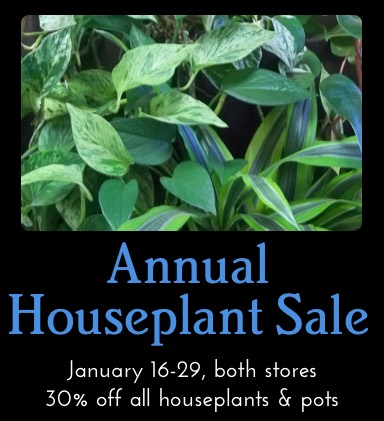
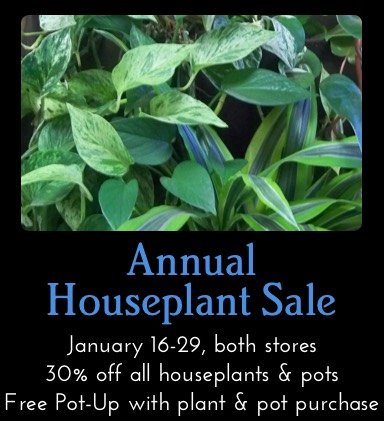
updates

Changed region(s): [[0.0, 0.5558, 1.0, 0.9881]]

diff --git a/pages/events/current-classes.htm b/pages/events/current-classes.htm
@@ -66,6 +66,7 @@ is_hidden = 0
 -->
 
 
+<!--
 <h2 class="wkend">Ongoing throughout the holidays</h2>
 
 <figure><img class="img-responsive" src="{{ 'assets/images/events/wreathmaking.jpg'|theme }}" alt="classes"></figure>
@@ -76,34 +77,9 @@ is_hidden = 0
 <p>Call us to schedule at the location of your choice with your preferred date and time slot. </p>
 
 <p><strong>9000 SE Division St. location:</strong><br />Limited to 5-12 people.<br>Daily from November 23 – December 23. Time Slots are 10:00am, 12:30pm and 3:00pm.<br>Email <a href="mailto:division-classes@portlandnursery.com?subject=Schedule%20a%20Wreath%20Party">division-classes@portlandnursery.com</a> or call 503-788-9000.</p>
+-->
 
 <!-- <p><strong>5050 SE Stark St location:</strong><br />Limited to 5-10 people.<br>Daily from November 22 – December 15. Time Slots are 10:00am, 12:30pm and 3:00pm.<br>Email <a href="mailto:stark-classes@portlandnursery.com?subject=Schedule%20a%20Wreath%20Party">stark-classes@portlandnursery.com</a> or call 503-231-5050.</p> -->
-
-
-<h2 class="wkend">December 21 - 22, 2019</h2>
-
-<div class="dclass">
-	<h3>Holiday Craft Workshop for Kids</h3>
-<p>with Portland Nursery Staff<br>
-Kick off winter break with a fun activity for the whole family! Get creative with fresh-cut greens, and smell the scents of the season. Our enthusiastic teachers will guide you through the process of making a small wreath, swag, or table arrangement that is unique to you, and guaranteed to bring holiday cheer into your home! <strong>Since we will be using handheld pruners we request kids 12 and under be accompanied by an adult.</strong> Class size will be limited so sign up soon! Make sure to register separately for each family member.</p>
-<p>$15 materials fee.</p>
-<p><strong>9000 SE DIVISION &bull; Saturday &bull; December 21 &bull; 10:00-11:30am</strong><br>
-<a href="https://portlandnursery.wufoo.com/forms/z1o8kfx51dov2dy/" onclick="window.open(this.href,  null, 'height=483, =680, toolbar=0, location=0, status=1, scrollbars=1, resizable=1'); return false">Click here to register for this class.</a></p></div>
-
-<h3>Wreath Making Workshop at STARK</h3>
-<p>with Portland Nursery Staff<br>
-Come create a beautiful wreath for your door this holiday season! Portland Nursery staff will supply the technical know-how, you bring your own special style, your gloves and pruners. We will make a 12” wreath with fresh greens and other decoration.  We will provide pruners, but please bring a pair if you have some. Dress warmly! </p>
-<p>Class limit 10 people. $35 materials fee.</p>
-<p><strong>5050 SE STARK &bull; Saturday &bull; December 21 &bull; 12:30pm</strong><br>
-<a href="https://portlandnursery.wufoo.com/forms/z1wssgf91an08nx/" onclick="window.open(this.href,  null, 'height=483, =680, toolbar=0, location=0, status=1, scrollbars=1, resizable=1'); return false">Click here to register for this class.</a></p>
-
-<div class="dclass">
-	<h3>Rituals for Winter Solstice</h3>
-<p>with <a target="_blank" href="http://www.hollypruettcelebrant.com">Life-Cycle Celebrant Holly Pruett</a><br>
-Join Life-Cycle Celebrant Holly Pruett to explore the world of winter rituals. How can we honor the darker times, the fallow ground that carries the promise of spring? This creative ceremony-maker will help you imagine and carry out personal, family, and community rituals that transcend the commercial chaos of the holiday season. Portland Nursery landscape designer Terrie Burdette will guide the group through creating a personalized candle ring from collected greens & floral materials. A wonderful hands-on activity to embrace the season and take home a new ritual.</p>
-<p>Materials fee: $12, pay at register day of class. Please bring gloves and hand pruners.</p>
-<p><strong>9000 SE DIVISION &bull; Saturday &bull; December 21 &bull; 3:00-4:30pm</strong><br>
-<a href="https://portlandnursery.wufoo.com/forms/z1xmd1a71my0mjv/" onclick="window.open(this.href,  null, 'height=483, =680, toolbar=0, location=0, status=1, scrollbars=1, resizable=1'); return false">Click here to register for this class.</a></p></div>
 
 
 <h2 class="wkend">January 4 - 5, 2020</h2>
@@ -250,8 +226,92 @@ Want to be an orchid-keeper? Maybe you’re intimidated by their stereotypes of 
 <p><strong>5050 SE STARK &bull; Sunday &bull; January 26 &bull; 1:00pm</strong><br>
 <a href="https://www.eventbrite.com/e/orchids-101-with-sue-volek-tickets-84460135539" onclick="window.open(this.href,  null, 'height=483, =680, toolbar=0, location=0, status=1, scrollbars=1, resizable=1'); return false">Click here to register for this class.</a></p>
 
+<h2 class="wkend">February 1 - 2, 2020</h2>
 
+<div class="dclass">
+	<h3>What to Do in the February Vegetable Garden</h3>
+    <p>with Robyn Streeter of <a href="http://www.yourbackyardfarmer.com/" target="_blank">Your Backyard Farmer</a><br />
+Join Robyn for a great refresher on what to do in the veggie garden for the month of February. Learn how to plan your garden for the year. This includes selecting the garden site, how much space you need to feed your family, crop rotation planning, and garden mapping! </p>
+<p><strong>9000 SE DIVISION &bull; Saturday &bull; February 1 &bull; 11:00am</strong><br>
+<a href="https://portlandnursery.wufoo.com/forms/z1mlac030hu93xd/" onclick="window.open(this.href,  null, 'height=483, =680, toolbar=0, location=0, status=1, scrollbars=1, resizable=1'); return false">Click here to register for this class.</a></p></div>
 
+<div class="dclass">
+	<h3>Make a Spring Wreath</h3>
+<p>with Jess<br>
+Welcome Spring by joining Jess of Portland Nursery to create a hand-tied wreath. We will use fresh flowers and branches that celebrate nature’s annual awakening. </p>
+<p>Materials fee: $30, payable at register on the day of the class. Class size limited to 20. </p>
+<p><strong>9000 SE DIVISION &bull; Sunday &bull; February 2 &bull; 11:00am</strong><br>
+<a href="https://portlandnursery.wufoo.com/forms/z4ucbxk1sw0eux/" onclick="window.open(this.href,  null, 'height=483, =680, toolbar=0, location=0, status=1, scrollbars=1, resizable=1'); return false">Click here to register for this class.</a></p></div>
+
+<h2 class="wkend">February 8 - 9, 2020</h2>
+
+<div class="dclass">
+	<h3>Kokedama Workshop </h3>
+    <p>with Lucy Davenport of <a target="_blank" href="http://www.bonsaiakira.com">Bonsai Akira</a><br />
+Kokedama roughly translates from Japanese to mean “moss ball,” which describes the technique of wrapping of the plant’s roots and soil in moss and artistically tying this bundle with wire or string. Either hung from a ceiling or shelf or set on a tray, kokedama is a beautiful and space saving way to display houseplants. Learn how to create two in this class and go home with tips on how to care for your new creations.
+Materials: $30 fee, payable at register day of class.</p>
+<p><strong>9000 SE DIVISION &bull; Saturday &bull; February 8 &bull; 11:00am</strong><br>
+<a href="https://portlandnursery.wufoo.com/forms/z1yzlfhu03qqpt9/" onclick="window.open(this.href,  null, 'height=483, =680, toolbar=0, location=0, status=1, scrollbars=1, resizable=1'); return false">Click here to register for this class.</a></p></div>
+
+<div class="dclass">
+	<h3>The Seasons of a Pine</h3>
+<p>with Tom Dufala, <a target="_blank" href="http://bentwoodtreefarm.com">Bentwood Tree Farm</a><br>
+Tom Dufala of Bentwood Tree Farm will visit us to explore Japanese garden styled pine trees. Learn about pine tree culture and the best methods to guide your pine tree into its own character. Tom will discuss pine varieties, garden siting for best growth, and how to care for and prune pine trees for a Japanese garden style.</p>
+<p><strong>9000 SE DIVISION &bull; Saturday &bull; February 8 &bull; 1:00pm</strong><br>
+<a href="https://portlandnursery.wufoo.com/forms/z7lxlv70yia66e/" onclick="window.open(this.href,  null, 'height=483, =680, toolbar=0, location=0, status=1, scrollbars=1, resizable=1'); return false">Click here to register for this class.</a></p></div>
+
+<div class="dclass">
+	<h3>Writing and Drawing with Plants</h3>
+	<p>with interdisciplinary artist <a target="_blank" href="https://www.tamaralynne.net">Tamara Lynne</a>, of Portland Nursery<br>
+Bring a hardback notebook with blank pages and a pen, pencil or any other drawing materials, and settle in to enjoy quiet writing and drawing inspiration from the many vibrant living things around us: plants, trees, insects, birds, sun, wind and weather. Through close listening, careful observation, and a series of timed prompts, we’ll engage with the environment. We plan to be outside for part of the time, weather permitting. Chairs will be provided, but feel free to bring cushions or other seating if you like.</p>
+<p><strong>9000 SE DIVISION &bull; Sunday &bull; February 9 &bull; 11:00am</strong><br>
+<a href="https://portlandnursery.wufoo.com/forms/zeelhch18j6z0w/" onclick="window.open(this.href,  null, 'height=483, =680, toolbar=0, location=0, status=1, scrollbars=1, resizable=1'); return false">Click here to register for this class.</a></p></div>
+
+<div class="dclass">
+	<h3>The Story of a Flower</h3>
+	<p>with Gradey Proctor from the <a target="_blank" href="https://arctosschool.org">Arctos School of Herbal and Botanical Studies</a><br>
+Are you ready to delve deep into the story of a flower? Then join Gradey from the Arctos School of Herbal and Botanical Studies in this hands-on class where we will go through basic anatomy of the flower and see what each part is up to. We’ll explore how this relates to the co-evolutionary dance between plant and insect, how we use this tool to ID plants and to explore plant relationships. If you are looking for a new way to see the plants in your garden you should come by for this hands-on exploration of the plant world. </p>
+<p><strong>9000 SE DIVISION &bull; Sunday &bull; February 9 &bull; 1:00pm</strong><br>
+<a href="https://portlandnursery.wufoo.com/forms/z1a25wtz0ztekza/" onclick="window.open(this.href,  null, 'height=483, =680, toolbar=0, location=0, status=1, scrollbars=1, resizable=1'); return false">Click here to register for this class.</a></p></div>
+
+<h2 class="wkend">February 15 - 16, 2020</h2>
+
+<div class="dclass">
+	<h3>Rose Care 101 </h3>
+     <p>with Rich Baer, <a href="http://www.portlandrosesociety.org/" target="_blank">Portland Rose Society</a><br />
+February is here and it’s time to prune your roses! Join rose expert Rich Baer from the Portland Rose Society to learn the basics of growing roses. He will cover the basics of different rose species, proper pruning timing and techniques, fertilizing and watering needs, pest and disease control, and other helpful tips to keep your roses healthy, happy, and blooming!</p>
+<p><strong>9000 SE DIVISION &bull; Saturday &bull; February 15 &bull; 1:00pm</strong><br>
+<a href="https://portlandnursery.wufoo.com/forms/znan7uf1msylzv/" onclick="window.open(this.href,  null, 'height=483, =680, toolbar=0, location=0, status=1, scrollbars=1, resizable=1'); return false">Click here to register for this class.</a></p></div>
+
+<div class="dclass">
+	<h3>Herbal Remedies from the Kitchen Cabinet</h3>
+	<p>with Gradey Proctor from the <a target="_blank" href="https://arctosschool.org">Arctos School of Herbal and Botanical Studies</a><br>
+Did you know that there is a whole apothecary at your disposal in your own kitchen? Join community herbalist Missy Rohs to uncover the secrets in your spice cabinet. We’ll talk about herbs (and even some vegetables!) that you can use for colds, digestive upset, coughs, wounds, and more! You’ll be surprised at how many remedies you never knew you could use safely and effectively that can be grown in your own back yard or on your windowsill.</p>
+<p><strong>9000 SE DIVISION &bull; Sunday &bull; February 16 &bull; 1:00pm</strong><br>
+<a href="https://portlandnursery.wufoo.com/forms/z1pe377u1nhok33/" onclick="window.open(this.href,  null, 'height=483, =680, toolbar=0, location=0, status=1, scrollbars=1, resizable=1'); return false">Click here to register for this class.</a></p></div>
+
+<h2 class="wkend">February 22 - 23, 2020</h2>
+
+<div class="dclass">
+	<h3>Winter Apple Tree Pruning</h3>
+<p>with Jarid<br>
+Spring is almost here and it’s time to winter prune your apples! Join Jarid of Portland Nursery for an intro in essential care for your apple trees. Learn how to improve your yields, train young trees, reinvigorate your old growth tree, and more. We will discuss some of the fundamentals of apple tree growth and how you can use that knowledge to get the most from your apple tree.</p>
+<p><strong>9000 SE DIVISION &bull; Sunday &bull; February 22 &bull; 1:00pm</strong><br>
+<a href="https://portlandnursery.wufoo.com/forms/zpfxd220rw80an/" onclick="window.open(this.href,  null, 'height=483, =680, toolbar=0, location=0, status=1, scrollbars=1, resizable=1'); return false">Click here to register for this class.</a></p></div>
+
+<div class="dclass">
+	<h3>Organic Veggie Gardening 101: Basics for Beginners</h3>
+    <p>with <a href="http://jolieanndonohue.wix.com/thegardeninggoddess" target="_blank">Gardening Goddess</a>, Jolie Ann Donohue<br />
+If you are excited to grow your own food, but have little to no experience or are new to gardening in the Portland area, this is the class for you! Jolie Donohue, The Gardening Goddess will discuss the basics of organic edible gardening, including: site preparation, crop selection based on site elements, planting and care techniques. With her two decades of gardening experience, Jolie will demystify growing your own food and will share her tips and techniques for beginner success!</p>
+<p><strong>9000 SE DIVISION &bull; Sunday &bull; February 23 &bull; 11:00am</strong><br>
+<a href="https://portlandnursery.wufoo.com/forms/z1d9k3w10lfdwsx/" onclick="window.open(this.href,  null, 'height=483, =680, toolbar=0, location=0, status=1, scrollbars=1, resizable=1'); return false">Click here to register for this class.</a></p></div>
+
+<div class="dclass">
+	<h3>Organic Veggie Gardening 102: Companion Planting and Crop Rotation</h3>
+    <p>with <a href="http://jolieanndonohue.wix.com/thegardeninggoddess" target="_blank">Gardening Goddess</a>, Jolie Ann Donohue<br />
+Take your vegetable garden to the next level. This is a great class for gardeners with a little experience under their belt who now want to dig deeper! Join Jolie Donohue, The Gardening Goddess and learn the benefits of practicing crop rotation and companion planting for the healthiest, happiest plants possible. Drawing from two decades of gardening experience, Jolie will discuss tips and techniques for crop rotation, great crop combinations and methods for inter-planting, and strategize about how to rotate crops in small urban plots.</p>
+<p><strong>9000 SE DIVISION &bull; Sunday &bull;  February 23 &bull; 1:00pm</strong><br>
+<a href="https://portlandnursery.wufoo.com/forms/z1r54qzz16jafjg/" onclick="window.open(this.href,  null, 'height=483, =680, toolbar=0, location=0, status=1, scrollbars=1, resizable=1'); return false">Click here to register for this class.</a></p></div>
 
 
 <hr/>

diff --git a/pages/events/yearly-events.htm b/pages/events/yearly-events.htm
@@ -14,8 +14,8 @@ is_hidden = 0
     <div class="container content">
         <div class="row">
             <div class="col-md-offset-1 col-md-10">
-<!--
-                <h2 class="wkend">January 2020</h2>
+
+   <h2 class="wkend">January 2020</h2>
 
                 <figure><img class="img-responsive" src="{{ 'assets/images/events/houseplant-sale-event.jpg'|theme }}" alt="classes"></figure>
 
@@ -39,6 +39,7 @@ is_hidden = 0
 
                 <h4>Both Locations &bull; January 16-29 &bull; Store Hours</h4>
 
+<!--
                 <h2 class="wkend">February 2019</h2>
 
                    <figure><img class="img-responsive" src="{{ 'assets/images/events/valentinesale.jpg'|theme }}" alt="classes"></figure>
@@ -308,7 +309,7 @@ Come work with the mason bee experts to find out how to harvest your mason bees!
 <p><strong>9000 SE DIVISION &bull; Sunday &bull; November 17 &bull; 1:00-3:00pm</strong><br>
 <a href="https://portlandnursery.wufoo.com/forms/z1mysxow09k3d68/" onclick="window.open(this.href,  null, 'height=483, =680, toolbar=0, location=0, status=1, scrollbars=1, resizable=1'); return false">Click here to register for this class.</a></p>
 
-   <hr>-->
+
 
 <figure><img class="img-responsive" src="{{ 'assets/images/events/wreathmaking.jpg'|theme }}" alt="classes"></figure>
 <h3>Schedule a Wreath Making Party!</h3>
@@ -320,31 +321,8 @@ Come work with the mason bee experts to find out how to harvest your mason bees!
 <p><strong>9000 SE Division St. location:</strong><br />Limited to 5-12 people.<br>Daily from November 23 – December 23. Time Slots are 10:00am, 12:30pm and 3:00pm.<br>Email <a href="mailto:division-classes@portlandnursery.com?subject=Schedule%20a%20Wreath%20Party">division-classes@portlandnursery.com</a> or call 503-788-9000.</p>
 
 <p><strong>5050 SE Stark St location:</strong><br />Limited to 5-10 people.<br>Daily from November 22 – December 15. Time Slots are 10:00am, 12:30pm and 3:00pm.<br>Email <a href="mailto:stark-classes@portlandnursery.com?subject=Schedule%20a%20Wreath%20Party">stark-classes@portlandnursery.com</a> or call 503-231-5050.</p>
+   <hr>-->
 
-
-                <h2 class="wkend">January 2020</h2>
-
-                <figure><img class="img-responsive" src="{{ 'assets/images/events/houseplant-sale-event.jpg'|theme }}" alt="classes"></figure>
-
-                <h2>Portland Nursery Annual Houseplant and Pottery Sale</h2>
-
-                <p>We call January Indoor Gardening Month and at Portland Nursery, you'll find the biggest selection of houseplants around!</p>
-
-                <h3>We have fresh shipments of houseplants for the sale!</h3>
-
-                <blockquote>
-                    <ul>
-                        <li>30% off all Houseplants including Indoor Bonsai, Orchids, Citrus and Cactus</li>
-
-                        <li>30% off all Decorative Pots</li>
-
-                        <li>Purchase a plant and a pot and get a free Pot-Up!</li>
-
-                        <li>Indoor gardening classes all month long.</li>
-                    </ul>
-                </blockquote>
-
-                <h4>Both Locations &bull; January 16-29 &bull; Store Hours</h4>
 
                 <div class="clear"></div>
 

diff --git a/partials/homepage/tasks.htm b/partials/homepage/tasks.htm
@@ -14,7 +14,7 @@
        <div class="col-md-4 col-sm-6">
 			 <div class="season-box">
                 <div class="season-thumb">
-                      <a href="https://portlandnursery.com/events/current-classes/"><img src="{{ 'assets/images/classboxes/wreathclasses.jpg'|theme }}" alt="" /></a>
+                      <a href="https://portlandnursery.com/resources/sales/"><img src="{{ 'assets/images/classboxes/houseplantsale.jpg'|theme }}" alt="" /></a>
                 </div>
 
                  <a href="https://portlandnursery.com/resources/sales/">
@@ -30,29 +30,10 @@
                 </div>
             </div>
 
-       <div class="col-md-4 col-sm-6">
+        <div class="col-md-4 col-sm-6">
 			 <div class="season-box">
                 <div class="season-thumb">
-                     <a href="https://portlandnursery.com/resources/sales/"><img src="{{ 'assets/images/marketing/bulbsale50.jpg'|theme }}" alt="" /></a>
-                </div>
-
-                 <a href="https://portlandnursery.com/resources/sales/">
-	                 <div class="season-content">
-                    <div class="content-show">
-                    </div>
-                 </div>
-                 </a>
-
-                    <div class="content-hide">
-                       <p></p>
-                    </div>
-                </div>
-            </div>
-
-         <div class="col-md-4 col-sm-6">
-			 <div class="season-box">
-                <div class="season-thumb">
-                   <a href="https://portlandnursery.com/resources/sales/"><img src="{{ 'assets/images/marketing/ornaments50.jpg'|theme }}" alt="" /></a>
+                   <a href="https://portlandnursery.wufoo.com/forms/zcaxo1z02ydnq2/" onclick="window.open(this.href,  null, 'height=483, =680, toolbar=0, location=0, status=1, scrollbars=1, resizable=1'); return false"><img src="{{ 'assets/images/classboxes/indoorsoil.jpg'|theme }}" alt="" /></a>
                 </div>
 
                  <a href="https://portlandnursery.com/resources/sales/">
@@ -67,6 +48,25 @@
                     </div>
                 </div>
             </div><!-- col-md-4 col-sm-6 -->
+
+            <div class="col-md-4 col-sm-6">
+			 <div class="season-box">
+                <div class="season-thumb">
+                     <a href="https://portlandnursery.wufoo.com/forms/z1s7knti0qpdt93/" onclick="window.open(this.href,  null, 'height=483, =680, toolbar=0, location=0, status=1, scrollbars=1, resizable=1'); return false"><img src="{{ 'assets/images/classboxes/terrariumD.jpg'|theme }}" alt="" /></a>
+                </div>
+
+                 <a href="https://portlandnursery.com/resources/sales/">
+	                 <div class="season-content">
+                    <div class="content-show">
+                    </div>
+                 </div>
+                 </a>
+
+                    <div class="content-hide">
+                       <p></p>
+                    </div>
+                </div>
+            </div>
 
 
     </div>

diff --git a/pages/about/employment.htm b/pages/about/employment.htm
@@ -16,8 +16,9 @@ is_hidden = 0
     <div class="container content">
         <div class="row">
             <div class="col-md-8 left-inner">
-  <!--              <h3>We are now taking applications for seasonal employment at BOTH of our locations. Come to the nursery and  fill out an application – or <a href="https://portlandnursery.com/docs/employment/EmploymentApplication1.4.2018.pdf" target="_blank">download and fill out the application form linked here</a> - then fax, mail, <a href="mailto:jobs@portlandnursery.com?subject=Employment%20Application">email</a> or deliver to us (see addresses in sidebar).</h3>-->
+             <h3>We are now taking applications for seasonal employment at BOTH of our locations. Come to the nursery and  fill out an application – or <a href="https://portlandnursery.com/docs/employment/EmploymentApplication1.4.2018.pdf" target="_blank">download and fill out the application form linked here</a> - then fax, mail, <a href="mailto:jobs@portlandnursery.com?subject=Employment%20Application">email</a> or deliver to us (see addresses in sidebar).</h3>
 
+<!--
                 <h3>Thank you for your interest in working at Portland Nursery. Interviews are over for Spring 2019 hiring.</h3>
 
                 <h3>Employment Applications</h3>
@@ -26,10 +27,11 @@ is_hidden = 0
 
 
                 <h3>Print out our application form: <a href="https://portlandnursery.com/docs/employment/EmploymentApplication1.4.2018.pdf" target="_blank">Application for Employment</a></h3>
+-->
 
 
-<!--
-                <h2>2019 Seasonal Staff</h2>
+
+                <h2>2020 Seasonal Staff</h2>
 
                 <p><strong><em>Please note nearly all positions are seasonal, and must include weekends.</em></strong></p>
 
@@ -76,7 +78,6 @@ is_hidden = 0
                 </ul>
 
                 <p>If this sounds like you, come to the nursery and fill out an application – or <a href="https://portlandnursery.com/docs/employment/EmploymentApplication1.4.2018.pdf" target="_blank">download and fill out the application form linked here</a> - then fax, mail, <a href="mailto:jobs@portlandnursery.com?subject=Employment%20Application">email</a> or deliver to us (see addresses in sidebar).</p>
--->
 
         </div><!-- col-md-8 left-inner -->
 

diff --git a/partials/mainnav.htm b/partials/mainnav.htm
@@ -418,8 +418,8 @@
                                                    <li><img class="img-responsive" src="{{ 'assets/images/locations/employ200.jpg'|theme }}" alt="portland nursery on stark"></li>
 
                                                    <li><h3>Employment Opportunities</h3></li>
-                                                    <li>Thank you for your interest in working at Portland Nursery. Interviews are over for Spring 2019 hiring. Limited positions available.</li>
-                                   <!--          <li>We are taking applications for 2019 Spring Hiring. <a href="/about/employment/">Read more about the positions here</a>  or  <a target="_blank" href="https://portlandnursery.com/docs/employment/EmploymentApplication1.4.2018.pdf">Download an Application.</a></li> -->
+<!--                                                     <li>Thank you for your interest in working at Portland Nursery. Interviews are over for Spring 2019 hiring. Limited positions available.</li> -->
+                                         <li>We are taking applications for 2020 Spring Hiring. <a href="/about/employment/">Read more about the positions here</a>  or  <a target="_blank" href="https://portlandnursery.com/docs/employment/EmploymentApplication1.4.2018.pdf">Download an Application.</a></li>
                                                 </ul>
                                             </div>
 

diff --git a/pages/resources/sales.htm b/pages/resources/sales.htm
@@ -23,16 +23,13 @@ is_hidden = 0
 
                <h2>Come back again for new sales</h2>
 
-               <figure> <img class="img-responsive" alt="EB Stone Sale" src="https://portlandnursery.com/newsletter/images/sales/greensandgarland.jpg" style="margin: 0px;display: inline;"></figure>
+                <figure> <img class="img-responsive" alt="EB Stone Sale" src="https://portlandnursery.com/newsletter/images/sales/deadoralive.jpg" style="margin: 0px;display: inline;"></figure>
+
+               <figure> <img class="img-responsive" alt="EB Stone Sale" src="https://portlandnursery.com/newsletter/images/sales/calendars.jpg" style="margin: 0px;display: inline;"></figure>
 
                                <figure> <img class="img-responsive" alt="EB Stone Sale" src="https://portlandnursery.com/newsletter/images/sales/haybales.jpg" style="margin: 0px;display: inline;"></figure>
 
                <hr>
-
-               <figure> <img class="img-responsive" alt="EB Stone Sale" src="https://portlandnursery.com/newsletter/images/sales/ornaments50.jpg" style="margin: 0px;display: inline;"></figure>
-
-               <hr>
-
 
                 <figure> <img class="img-responsive" alt="EB Stone Sale" src="https://portlandnursery.com/newsletter/images/sales/fountainsA2019.jpg" style="margin: 0px;display: inline;"></figure>
 

diff --git a/partials/homepage/happenings.htm b/partials/homepage/happenings.htm
@@ -38,10 +38,10 @@
                     <div class="col-md-4 col-sm-6 wow fadeInUp" data-wow-duration="300ms" data-wow-delay="200ms">
                         <div class="media happening-box">
                             <div class="pull-left">
-                                <a href="/veggies/"><img class="happening-icon img-responsive" src="{{ 'assets/images/icons/giftcard.png'|theme }}" alt="Gift Card" /></a>
+                                <a href="/about/employment/"><img class="happening-icon img-responsive" src="{{ 'assets/images/icons/employment.png'|theme }}" alt="Gift Card" /></a>
                             </div>
                             <div class="media-body">
-                                <h3 class="media-heading"><a href="/resources/gift-cards/">Gift Cards</a></h3>
+                                <h3 class="media-heading"><a href="/about/employment/">Now Hiring!</a></h3>
 <!--                                 <p>We're taking applications!  Find out more: <a href="/about/appletasting-employment/">Apple Tasting Positions.</a></p> -->
                             </div>
                         </div>

diff --git a/partials/homepage/socialblock.htm b/partials/homepage/socialblock.htm
@@ -5,7 +5,7 @@
                 <div class="col-md-4 col-sm-6 wow fadeInDown">
                     <div class="specials text-left">
 <!--                         <h2 class="brightonL center">Specials</h2> -->
-                     <a href="https://portlandnursery.com/container-gardens/"><img class="img-responsive" src="{{ 'assets/images/marketing/dec2019container.jpg'|theme }}" alt="container" /></a> -
+                     <a href="https://portlandnursery.com/resources/sales"><img class="img-responsive" src="{{ 'assets/images/marketing/deadoralive.jpg'|theme }}" alt="container" /></a> -
 
                     </div><!-- col-md-4 -->
 
